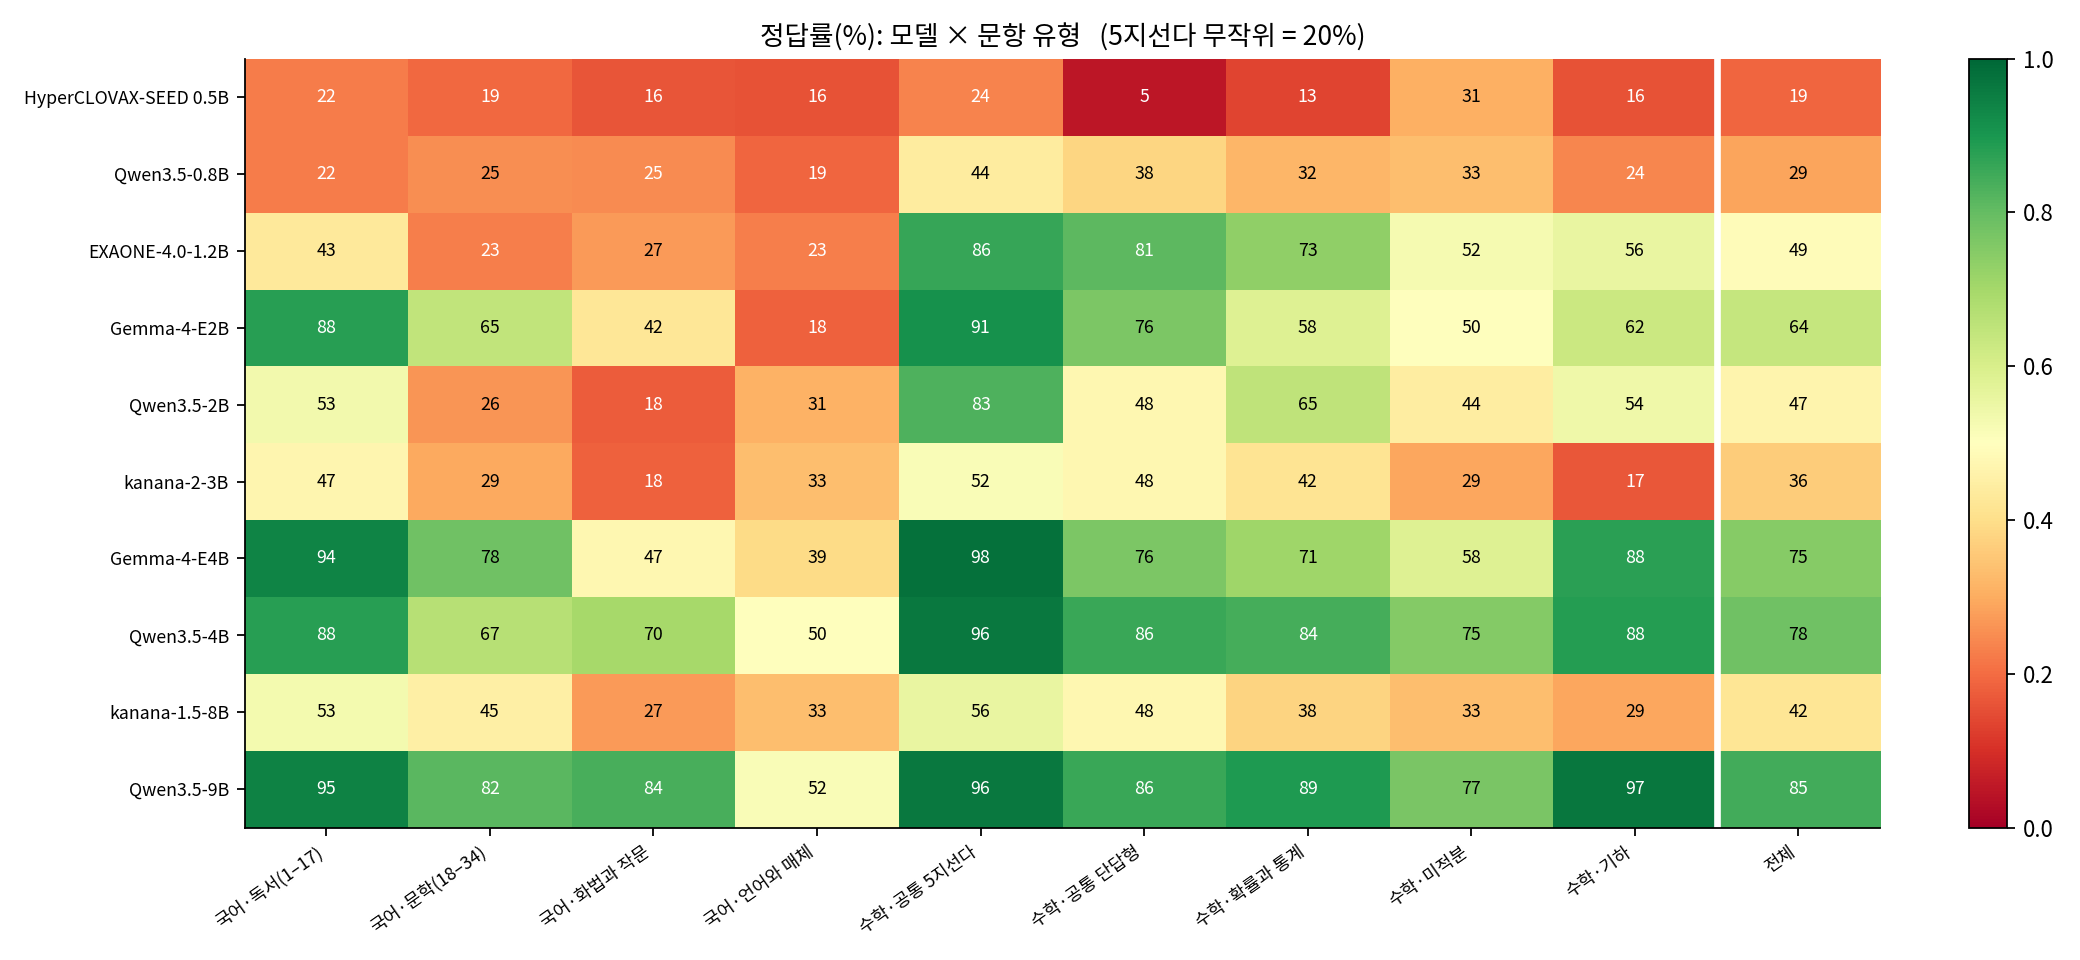
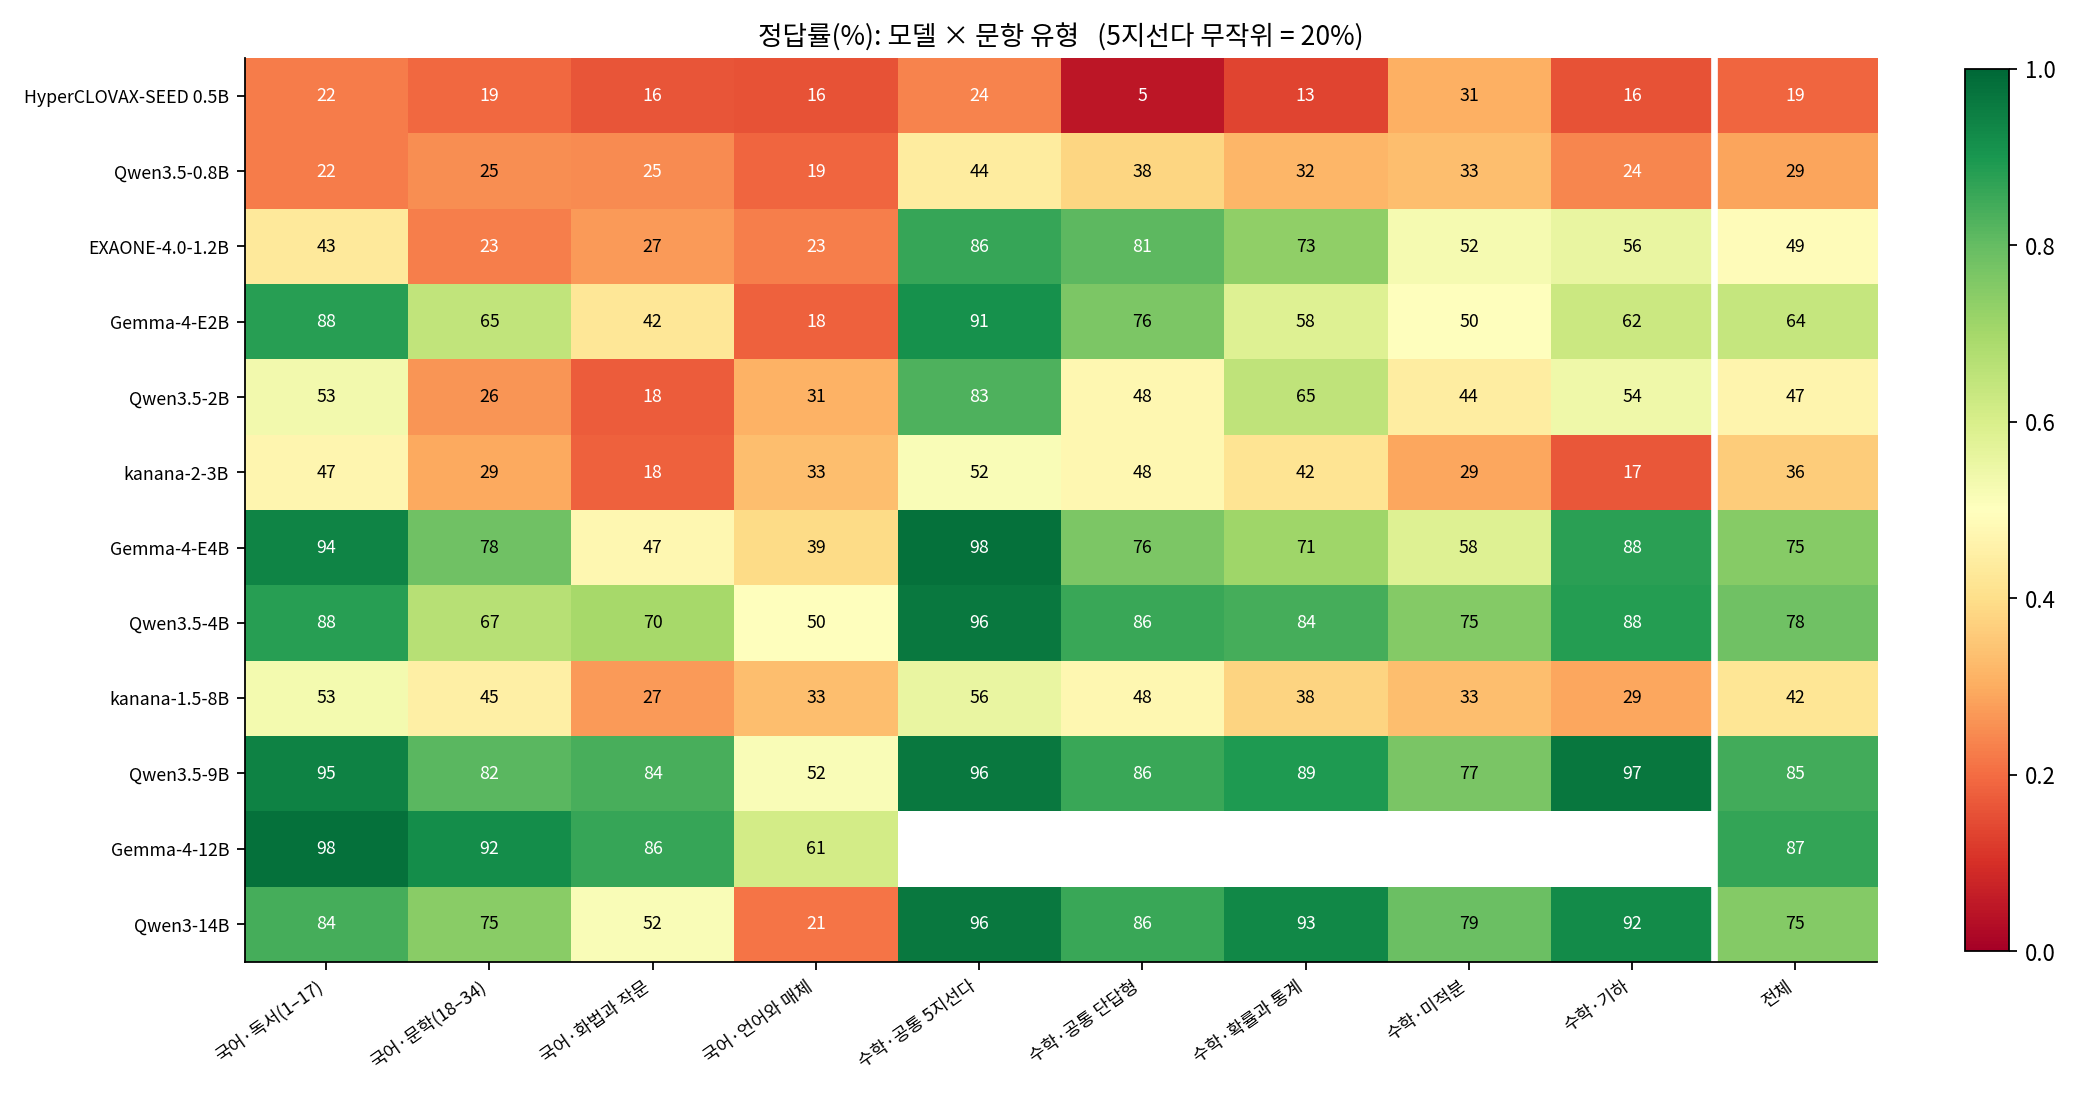
Update results (23 runs)

diff --git a/README.md b/README.md
@@ -1,18 +1,18 @@
 # 📱 폰 속 AI가 2027 수능을 풀었다
 
-**인터넷 없이 스마트폰·노트북에서 돌아가는 공개 AI 모델 10개에게 2026년 11월 19일 시험 당일 공개된 2027학년도 수능 문제를 풀게 하고 평가원 정답으로 채점했다.**
+**인터넷 없이 스마트폰·노트북에서 돌아가는 공개 AI 모델 12개에게 2026년 11월 19일 시험 당일 공개된 2027학년도 수능 문제를 풀게 하고 평가원 정답으로 채점했다.**
 
 ![기기 등급별 최고 점수](figures/hero.png)
 
-- **가장 높은 점수**: 국어 **88점**(Qwen3.5-9B), 수학 **93점**(Qwen3.5-9B). (100점 만점 원점수, 3회 평균)
-- **기기별로 보면** 보급형 스마트폰급 모델은 국어 최고 37점·수학 최고 78점, 중급 스마트폰급 모델은 국어 최고 76점·수학 최고 90점, 플래그십 스마트폰급 모델은 국어 최고 88점·수학 최고 93점이다. (아래 표 참고, 메모리 기준 추정)
+- **가장 높은 점수**: 국어 **92점**(Gemma-4-12B), 수학 **93점**(Qwen3.5-9B). (100점 만점 원점수, 3회 평균)
+- **기기별로 보면** 보급형 스마트폰급 모델은 국어 최고 37점·수학 최고 78점, 중급 스마트폰급 모델은 국어 최고 76점·수학 최고 90점, 플래그십 스마트폰급 모델은 국어 최고 88점·수학 최고 93점, 노트북·태블릿급 모델은 국어 최고 92점·수학 최고 92점이다. (아래 표 참고, 메모리 기준 추정)
 - **1B 이하 모델**은 평균 정답률이 24%로, 5지선다를 무작위로 찍었을 때(20%)와 비슷하거나 조금 나은 수준이다. 생각을 끝내지 못하고 길이 제한에 걸리거나, 답을 정해진 형식으로 쓰지 못하는 경우가 많았다.
 - **수학**은 작은 모델도 잘 푼다. 4B 크기의 Gemma-4-E4B가 80점을 넘었다.
-- 시험지 맨 끝의 4점 단답형 고난도 문항(공통 21·22번, 선택 29·30번)은 모델 평균 정답률이 17%, 가장 잘 푼 모델도 67%에 그쳤다.
-- **국어가 수학보다 어렵다.** 2B 이상 모델 기준으로 국어 정답률이 수학보다 평균 13%p 낮다. 2,000–4,000자 길이의 지문을 읽고 선택지 사이의 미묘한 차이를 가려내는 일이 작은 모델에게는 계산보다 어렵다.
+- 시험지 맨 끝의 4점 단답형 고난도 문항(공통 21·22번, 선택 29·30번)은 모델 평균 정답률이 21%, 가장 잘 푼 모델도 67%에 그쳤다.
+- **국어가 수학보다 어렵다.** 2B 이상 모델 기준으로 국어 정답률이 수학보다 평균 14%p 낮다. 2,000–4,000자 길이의 지문을 읽고 선택지 사이의 미묘한 차이를 가려내는 일이 작은 모델에게는 계산보다 어렵다.
 - **국산 모델**: HyperCLOVAX-SEED 0.5B(국어 20점, 수학 18점), EXAONE-4.0-1.2B(국어 31점, 수학 74점), kanana-2-3B(국어 34점, 수학 39점), kanana-1.5-8B(국어 45점, 수학 42점).
 
-> 마지막 업데이트: 2026-11-19 15:43 KST. 평가가 진행되는 동안 모델 하나가 끝날 때마다 이 페이지가 자동으로 갱신된다.
+> 마지막 업데이트: 2026-11-19 16:08 KST. 평가가 진행되는 동안 모델 하나가 끝날 때마다 이 페이지가 자동으로 갱신된다.
 
 ## 왜 소형 모델인가
 
@@ -31,7 +31,7 @@
 | 보급형 스마트폰 | RAM 4–6GB | ≤1.5GB | HyperCLOVAX-SEED 0.5B, Qwen3.5-0.8B, EXAONE-4.0-1.2B, Qwen3.5-2B | 37 / 78 |
 | 중급 스마트폰 | RAM 8GB | 1.5–3.2GB | Gemma-4-E2B, kanana-2-3B, Gemma-4-E4B, Qwen3.5-4B | 76 / 90 |
 | 플래그십 스마트폰 | RAM 12–16GB | 3.2–6GB | kanana-1.5-8B, Qwen3.5-9B | 88 / 93 |
-| 노트북·태블릿 | RAM 16GB 이상 | 6GB 이상 | – | – / – |
+| 노트북·태블릿 | RAM 16GB 이상 | 6GB 이상 | Gemma-4-12B, Qwen3-14B | 92 / 92 |
 
 <sub>주의: 이 표는 메모리 기준 추정치다. 이번 평가는 압축하지 않은 원래 정밀도로 진행했으므로, 기기에서 4비트로 돌리면 점수가 조금 낮아질 수 있다. 또 스마트폰의 생성 속도는 초당 수~수십 토큰 수준이라, 추론 모드 모델이 한 문항에 수천~1만 토큰을 쓰면 문항당 수 분이 걸린다. 정해진 시험 시간 안에 실제로 풀 수 있는지는 속도까지 함께 봐야 한다.</sub>
 
@@ -67,8 +67,6 @@
 
 ![가장 어려운 15문항](figures/hardest_items.png)
 
-**모든 모델이 3회 모두 틀린 문항**: `math-calc-30`, `math-common-21`
-
 ## 문항 해설
 
 대표 문항 몇 개를 골라 모델별 풀이 과정을 구체적으로 분석했다: [docs/examples.md](docs/examples.md)
@@ -91,6 +89,8 @@
 | Qwen3.5-4B | 알리바바 | 4.0 | 중급 스마트폰 | 76.1 <sub>(73–81)</sub> | 71.1 <sub>(70–72)</sub> | 88.8 <sub>(86–92)</sub> | 85.9 <sub>(82–88)</sub> | 90.5 <sub>(82–96)</sub> |
 | kanana-1.5-8B | 카카오 | 8.0 | 플래그십 스마트폰 | 44.7 <sub>(40–48)</sub> | 45.3 <sub>(44–47)</sub> | 43.0 <sub>(37–49)</sub> | 42.0 <sub>(40–46)</sub> | 41.0 <sub>(34–46)</sub> |
 | Qwen3.5-9B | 알리바바 | 9.0 | 플래그십 스마트폰 | 87.7 <sub>(87–88)</sub> | 79.0 <sub>(76–81)</sub> | 90.4 <sub>(89–93)</sub> | 86.7 <sub>(82–92)</sub> | 92.8 <sub>(90–96)</sub> |
+| Gemma-4-12B | 구글 | 12.0 | 노트북·태블릿 | 92.0 <sub>(88–95)</sub> | 86.2 <sub>(78–93)</sub> | — | — | — |
+| Qwen3-14B | 알리바바 | 14.8 | 노트북·태블릿 | 72.0 <sub>(68–77)</sub> | 64.7 <sub>(64–66)</sub> | 91.7 <sub>(90–96)</sub> | 87.2 <sub>(85–89)</sub> | 91.5 <sub>(89–93)</sub> |
 
 **영역별 원점수**
 
@@ -131,6 +131,8 @@
 | Qwen3.5-4B | 0.70 / 0.70 / 0.04 / 0.07 / 8813 | 0.88 / 0.87 / 0.12 / 0.12 / 7250 | — |
 | kanana-1.5-8B | 0.42 / 0.42 / 0.00 / 0.00 / 343 | 0.43 / 0.43 / 0.01 / 0.00 / 857 | — |
 | Qwen3.5-9B | 0.80 / 0.79 / 0.07 / 0.07 / 7616 | 0.90 / 0.89 / 0.11 / 0.11 / 7024 | — |
+| Gemma-4-12B | 0.87 / 0.86 / 0.05 / 0.05 / 5240 | — | — |
+| Qwen3-14B | 0.62 / 0.62 / 0.00 / 0.00 / 1395 | 0.91 / 0.90 / 0.10 / 0.09 / 4721 | — |
 
 ## 평가 방법
 
